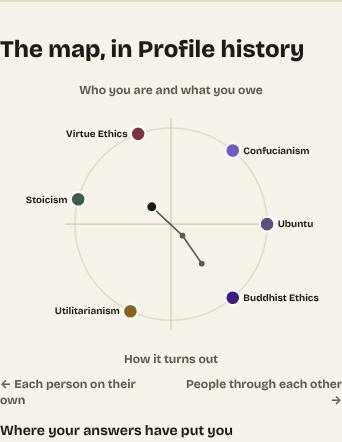
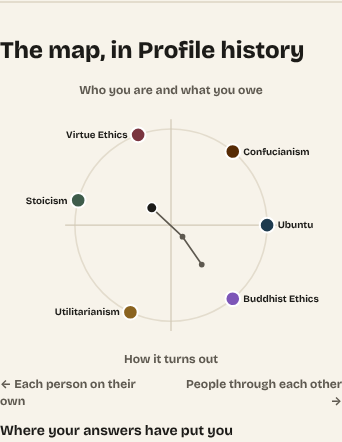
The new schools' colours: review pass 1 of #74
- The weakest pair is the brown and Virtue Ethics' oxblood under
  deuteranopia (12.7), neighbours on the map, not the ochre; under
  protanopia it is Stoicism and Virtue Ethics (17.0).
- The page and the record describe the rule the script runs: scored to
  a whole unit, ties to the set whose new three are furthest apart.
- Alternatives are "none at least 10 from the chosen colour", not
  "none that pass"; eight families, not nine sectors.
- The open question on darker card surfaces is restored and goes on
  Checkpoint B's list; the relaxation to 8 was not needed (the set clears
  12); the brown is 21 degrees of hue from the ochre, said.
- The Profile-history map screenshots were stale; retaken. The script
  header and the checkpoint note no longer say nothing is chosen.

Claude-Session: https://claude.ai/code/session_01GvBaXZx1cPn5VLqZ4u2xaU

diff --git a/src/app/styleguide/phase3/page.tsx b/src/app/styleguide/phase3/page.tsx
@@ -114,11 +114,11 @@ export default function Phase3Page() {
           deuteranopia and protanopia. The other constraints are as before: white hero text at AA, a
           dot that shows on paper, {colours.thresholds.MIN_DE} from the live schools and{" "}
           {colours.thresholds.MIN_DE_OTHERS} from the judge&apos;s blue and the step-done orange in
-          normal vision, and none of a school&apos;s stereotyped hues. Of the sets that pass, this is
-          the one whose closest pair among all six schools is furthest apart (
-          {colours.chosen.worstPairAllSix} under the worst of the three views), and, within a whole
-          unit of that, the one whose three new colours are furthest from each other (
-          {colours.chosen.worstPairAmongNew}). Names always sit beside the colours.
+          normal vision, and none of a school&apos;s stereotyped hues. Each set that passes is scored
+          by its closest pair among all six schools under the worst of the three views, rounded to a
+          whole unit; of the sets with the best score, this is the one whose three new colours are
+          furthest from each other ({colours.chosen.worstPairAmongNew}). Its closest pair is{" "}
+          {colours.chosen.worstPairAllSix}. Names always sit beside the colours.
         </p>
         <h3 className="mt-6 text-base font-extrabold text-ink">The six, side by side</h3>
         <ViewRow
@@ -139,9 +139,10 @@ export default function Phase3Page() {
         ))}
         <p className="mt-8 max-w-[62ch] text-sm leading-relaxed text-ink-mid">
           Beside each chosen colour, the best alternatives for that school with the other two held
-          where they are, under the same rules.
+          where they are, under the same rules, each at least {colours.thresholds.MIN_DE_BETWEEN} from
+          the chosen one.
           {withoutAlternatives.length > 0 &&
-            ` ${withoutAlternatives.join(" and ")} ${withoutAlternatives.length === 1 ? "has" : "have"} none that pass.`}
+            ` ${withoutAlternatives.join(" and ")} ${withoutAlternatives.length === 1 ? "has" : "have"} none that far away.`}
         </p>
         {DRAFT_SCHOOL_IDS.map((id) => (
           <div key={id} className="mt-8">
@@ -222,7 +223,9 @@ export default function Phase3Page() {
         <p className="mb-4 max-w-[62ch] text-sm text-ink-mid">
           Each school&apos;s own one_line at the card&apos;s 1200 by 630. The new schools use a card
           surface derived from its chosen colour: the same hue, darkened only where the card&apos;s
-          text would otherwise fall below AA at its lowest opacity.
+          text would otherwise fall below AA at its lowest opacity. The live schools&apos; surfaces
+          are all darker than their markers; whether the new ones should be too is Arthur&apos;s to
+          decide.
         </p>
         <div className="grid gap-6">
           {ALL.map((id) => {

diff --git a/docs/decisions.md b/docs/decisions.md
@@ -2936,9 +2936,9 @@ shows on paper, CIEDE2000 20 from the live schools and 15 from the judge's
 blue and the step-done orange in normal vision, each school's stereotyped
 hues excluded), with the distance to the live three under simulated
 deuteranopia and protanopia lowered from 12 to 8. "Different hue
-families" is nine named sectors of OKLCH hue (red, orange and brown,
-yellow and gold, green, cyan and teal, blue, violet, magenta), one school
-to a sector, and the three also at least 40 degrees of hue apart, so a
+families" is eight named families of OKLCH hue (red, orange and brown,
+yellow and gold, green, cyan and teal, blue, violet, magenta; red takes
+two sectors, since it wraps through 0), one school to a family, and the three also at least 40 degrees of hue apart, so a
 violet at 300 and a magenta at 320 do not count as different.
 
 **Why this set.** The relaxed 8 hardly widens what passes: 1,059 colours
@@ -2946,25 +2946,43 @@ against 1,056, nearly all blue to magenta, because the binding limit is
 the 20 from the live three in normal vision, which shuts out the greens,
 teals, reds, oranges and golds near Stoicism, Virtue Ethics and
 Utilitarianism. Among the sets that do pass, every school's possible
-colours were tried together, and the best is the one whose closest pair
-among all six schools, under the worst of the three views, is furthest
-apart: 12.7. A blue, violet and magenta set scores 12.8, a difference no
-one can see, with its three new colours only 12.8 apart and all within 90
-degrees of hue of each other, which is the all-violet set again in other
-words. So the score is taken to a whole unit and ties go to the set whose
-new colours are furthest from each other: 21.5 for this one. Confucianism
+colours were tried together. Each set is scored by its closest pair
+among all six schools, under the worst of the three views. The highest
+score is 12.8, a blue, violet and magenta set whose three new colours
+are only 12.8 apart and all within 90 degrees of hue of each other,
+which is the all-violet set again in other words; this set scores 12.7,
+a difference no one can see. So the score is rounded to the nearest
+whole unit, and ties go to the set whose new colours are furthest from
+each other: 21.5 for this one. Confucianism
 has to be the brown, since the Ubuntu and Buddhist exclusions both cover
 it; Ubuntu and Buddhist Ethics could swap blue and violet at the same
 score, and this way round was the search's first.
 
-**What to know.** Under both simulations the brown sits closest to
-Utilitarianism's ochre (12.7 under deuteranopia), and Ubuntu's blue to
-the judge's blue in normal vision (15.1, the limit being 15). Names always
-sit beside colours, which is what the relaxed rule rests on. Confucianism
-and Ubuntu have no alternative that passes with the other two held where
-they are; Buddhist Ethics has two, shown beside it. Each card surface is
-the marker itself, except Buddhist Ethics', darkened to `#724aab` so the
-card's text holds AA at its lowest opacity.
+**What to know.**
+- The weakest pair is Confucianism's brown and Virtue Ethics' oxblood
+  under simulated deuteranopia, 12.7, and the two are neighbours on the
+  map (50 and 110 degrees). Under protanopia the brown is nearest
+  Stoicism and Virtue Ethics (17.0 each); in normal vision it is nearest
+  Utilitarianism's ochre (20.1, the limit being 20). Names always sit
+  beside colours, which is what the relaxed rule rests on.
+- The brown's hue is 21 degrees from the ochre's. The ruling's families
+  constrain the three new schools among themselves, so this is no
+  breach, and a reading that applied families across all six would rule
+  the brown out and leave only blue, violet and magenta sets, the kind
+  rejected.
+- The relaxation to 8 turned out not to be needed: this set clears the
+  original 12 (its weakest pair is 12.7), and the search with 12 picks
+  the same set.
+- Ubuntu's blue is 15.1 from the judge's blue in normal vision, the
+  limit being 15.
+- With the other two held where they are, Confucianism and Ubuntu have
+  no alternative at least 10 from the chosen colour (they have near ones,
+  4.6 to 8.5 away); Buddhist Ethics has two, shown beside it.
+- Each card surface is the marker itself, except Buddhist Ethics',
+  darkened to `#724aab` so the card's text holds AA at its lowest
+  opacity. The live schools' surfaces are all darker than their markers;
+  whether the new ones should be too was an open question at Checkpoint
+  A that ruling 16 did not answer, and it goes on Checkpoint B's list.
 
 Nothing live changes: the colours reach the site with Phase 3, behind
 `SIX_SCHOOLS`.

diff --git a/docs/checkpoint-a.md b/docs/checkpoint-a.md
@@ -213,12 +213,12 @@ blindness. Each candidate has a card surface on which the card's text
 reads at AA; only Confucianism's had to be darkened to get there.
 Candidates, figures and screenshots are in `docs/phase3-styleguide/`.
 
+The choice is Arthur's: one of these, or loosen a constraint.
+
 **Ruled on 2026-11-05 (item 16):** the all-violet set is rejected; the
 three come from different hue families, held to 8 rather than 12 from
 the live three under the simulations. The chosen set is in
 `docs/decisions.md`, "The new schools' colours".
-
-The choice is Arthur's: one of these, or loosen a constraint.
 
 ## Sample activity (New)
 
